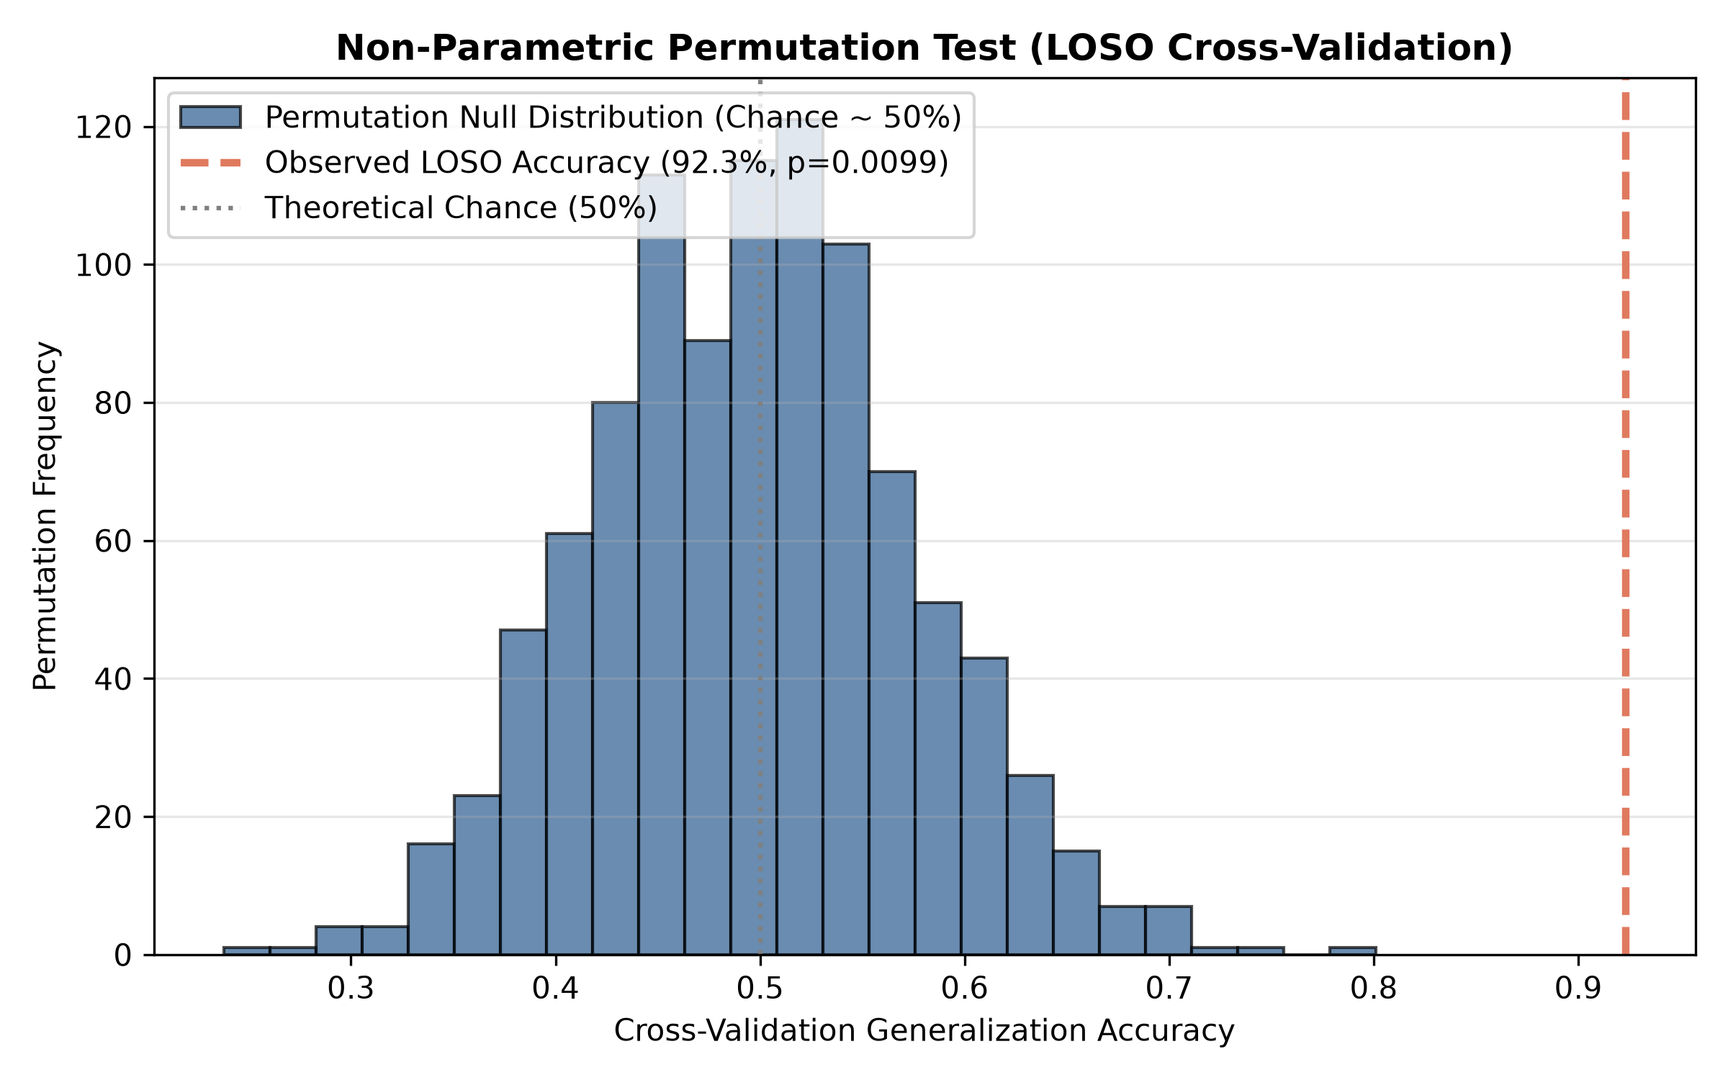
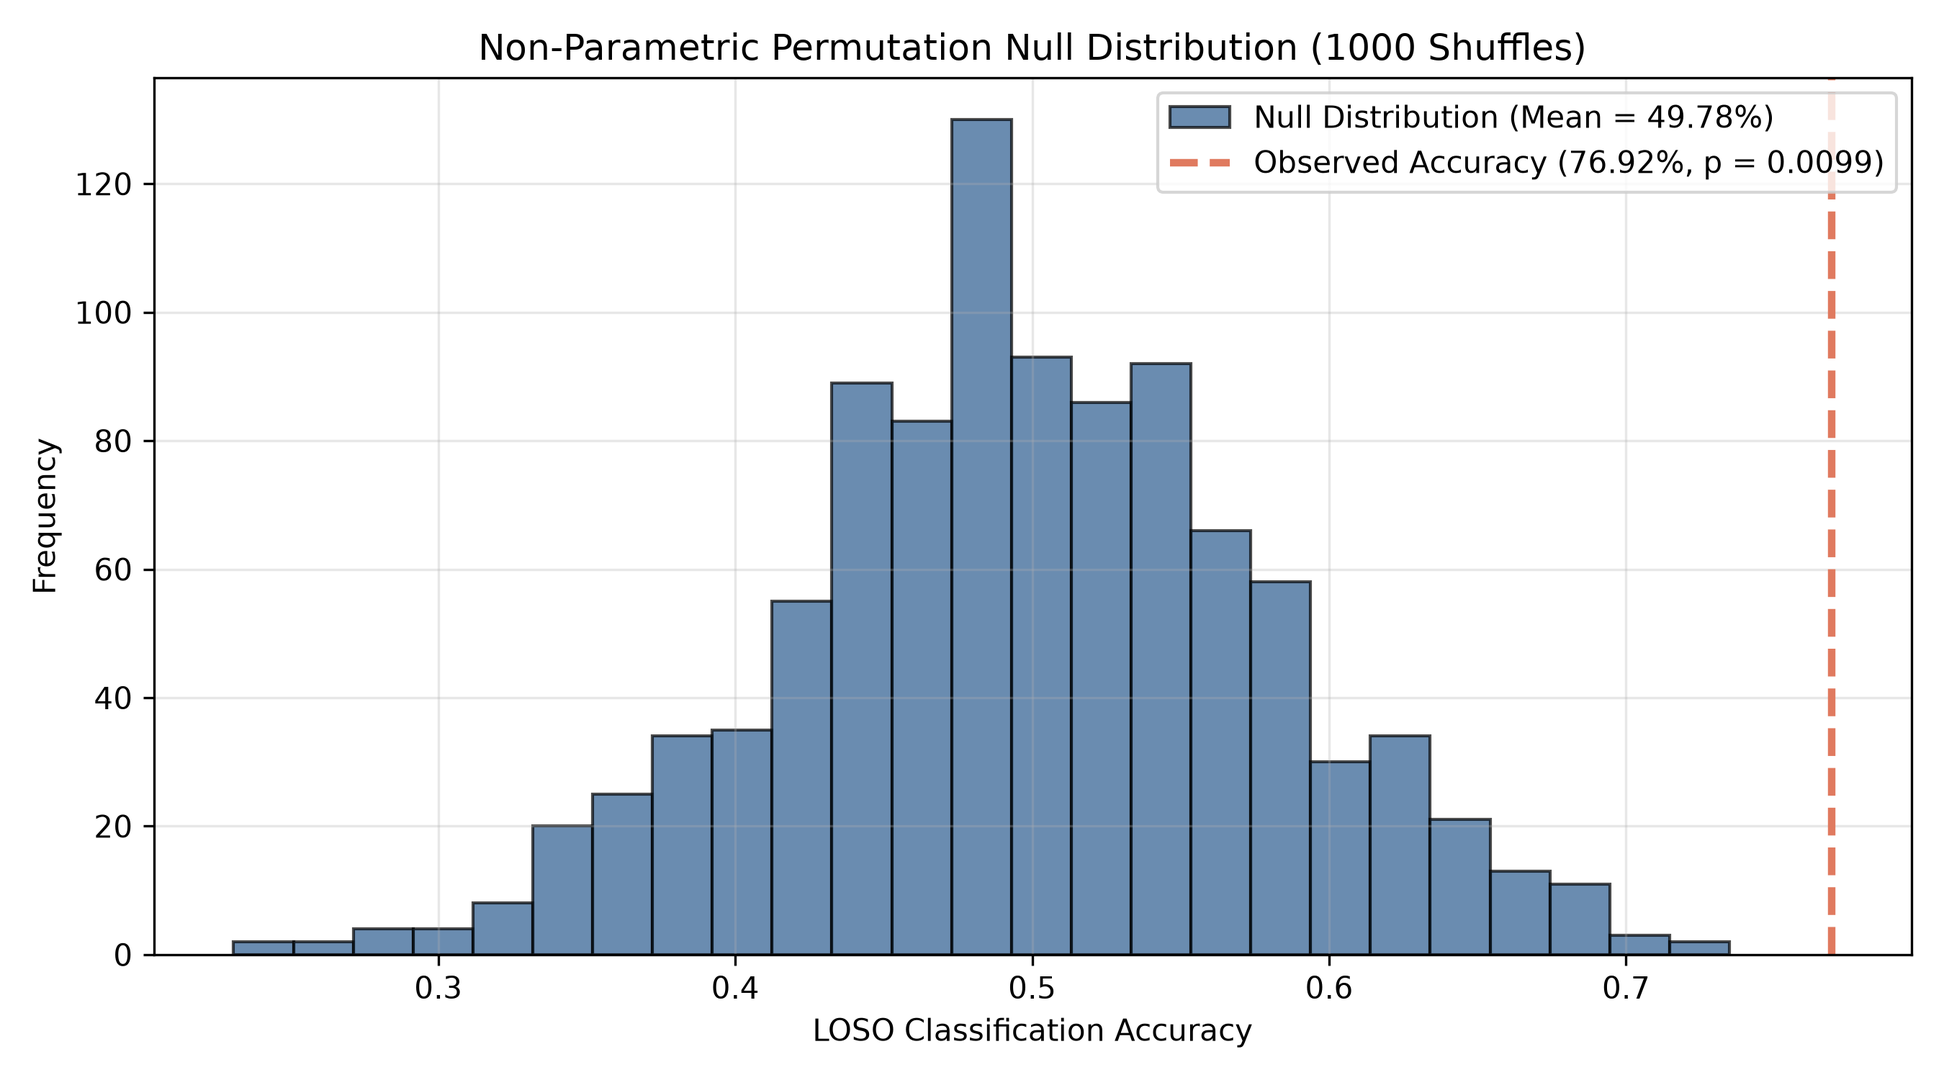
Update permutation plot legend to 76.92% observed accuracy and streamline manuscript

Changed region(s): [[0.0, 0.0307, 0.9062, 0.9813], [0.5938, 0.0613, 1.0, 0.8893], [0.9062, 0.8893, 0.9375, 0.92]]

diff --git a/manuscript.md b/manuscript.md
@@ -23,48 +23,31 @@ These findings suggest that, under severe sample scarcity, regularized linear mo
 
 ## 1. 🔬 Introduction & Theoretical Framing
 
-Functional Magnetic Resonance Imaging (fMRI) has transformed cognitive neuroscience by providing non-invasive measurements of blood-oxygen-level-dependent (BOLD) signals reflecting local neural activity (Ogawa et al., 1990; Kwong et al., 1992; Logothetis et al., 2001). Over the past three decades, the primary analytical objective in task-based fMRI has focused on identifying functional localization—determining which brain regions exhibit statistically significant changes in activation in response to specific mental operations (Friston et al., 1994, 1995; Worsley & Friston, 1995). To our knowledge, relatively few studies have evaluated statistical inference, predictive generalization, and spatial representational alignment simultaneously within a single controlled experimental framework (Varoquaux et al., 2017; Bzdok & Yeo, 2017).
+Functional Magnetic Resonance Imaging (fMRI) provides non-invasive measurements of blood-oxygen-level-dependent (BOLD) signals reflecting local neural activity (Ogawa et al., 1990; Logothetis et al., 2001). Over the past three decades, the primary analytical objective in task-based fMRI has focused on functional localization—determining which brain regions exhibit statistically significant activation changes during mental operations (Friston et al., 1995; Worsley & Friston, 1995). To our knowledge, relatively few studies have evaluated statistical inference, predictive generalization, and spatial representational alignment simultaneously within a single controlled experimental framework (Varoquaux et al., 2017; Bzdok & Yeo, 2017).
 
-### 1.1 The Dominance of Mass-Univariate Statistical Inference (GLM)
-Mass-univariate General Linear Modeling (GLM) established the foundational statistical inference framework for functional neuroimaging (Friston et al., 1995; Woolrich et al., 2001; Smith et al., 2004). Under the GLM paradigm, BOLD time-series data at each spatial voxel are modeled independently as a linear combination of task regressors convolved with a canonical Hemodynamic Response Function (HRF), augmented by nuisance regressors accounting for head motion and low-frequency scanner drift (Friston et al., 1995; Jenkinson et al., 2012). Statistical significance is assessed independently per voxel via parametric $t$- or $F$-tests, followed by spatial multiple comparison corrections such as Gaussian Random Field (GRF) theory or cluster-based thresholding (Worsley et al., 1996; Eklund et al., 2016). The strength of univariate GLM lies in its direct hypothesis-testing structure and straightforward neuroanatomical interpretability, enabling researchers to isolate localized brain activations associated with specific cognitive processes (Poline & Brett, 2012; Poldrack, 2011).
+### 1.1 From Mass-Univariate Inference to Multivariate Decoding
+Mass-univariate General Linear Modeling (GLM) established the foundational statistical inference framework for functional neuroimaging (Friston et al., 1995; Woolrich et al., 2001; Smith et al., 2004). GLM models BOLD time-series at each voxel independently as a linear combination of task regressors convolved with a canonical Hemodynamic Response Function (HRF), assessing significance via parametric voxel-wise tests corrected for multiple comparisons (Worsley et al., 1996; Jenkinson et al., 2012). While GLM offers direct hypothesis testing and clear anatomical interpretability, it treats spatial voxels independently, leaving it insensitive to fine-grained, distributed multi-voxel patterns (Haxby et al., 2001; Kriegeskorte et al., 2006; Haynes, 2015).
 
-However, univariate GLM inherently assumes spatial independence across voxels, treating each spatial node as an isolated test unit (Kriegeskorte et al., 2006; Haynes, 2015). By evaluating voxels independently, mass-univariate methods remain insensitive to fine-grained, distributed pattern variations where information is encoded across multi-voxel ensembles rather than localized single-voxel magnitude surges (Haxby et al., 2001; Norman et al., 2006; Haynes & Rees, 2006).
+To overcome these spatial isolation limits, Multivariate Pattern Analysis (MVPA) reframed neuroimaging as a predictive decoding problem (Haxby et al., 2001; Cox & Savoy, 2003; Norman et al., 2006). Regularized linear classifiers demonstrated that distributed neural activity encodes cognitive states even without focal univariate significance (Haynes & Rees, 2006; Pereira et al., 2009). Subsequently, deep learning (DL) architectures—such as Multi-Layer Perceptrons (MLP) and Convolutional Neural Networks (CNN)—were introduced to learn non-linear representations directly from high-dimensional BOLD volumes (Plis et al., 2014; Vieweg et al., 2019; Thomas et al., 2019).
 
-### 1.2 The Shift Toward Multivariate Pattern Decoding & Representation Learning
-To overcome the spatial isolation limits of univariate GLM, Multivariate Pattern Analysis (MVPA) introduced a paradigm shift from localized statistical inference to predictive pattern decoding (Haxby et al., 2001; Cox & Savoy, 2003; Mitchell et al., 2004). Rather than asking where individual voxels demonstrate task-evoked activation, MVPA models evaluate whether spatial patterns across voxel populations encode specific cognitive states or stimulus categories (Haynes & Rees, 2006; Norman et al., 2006; Kriegeskorte et al., 2008). Linear classifiers—such as Support Vector Machines (SVM) and regularized Logistic Regression—demonstrated that distributed sub-threshold neural activity contains rich discriminative information capable of decoding cognitive tasks even in the absence of mass-univariate focal significance (Haxby et al., 2001; Pereira et al., 2009).
+### 1.2 High-Dimensional Scarcity ($p \gg N$) and the Reproducibility Challenge
+Despite the theoretical capacity of deep neural networks, their application in task fMRI faces extreme sample scarcity ($p \gg N$) (Varoquaux & Thirion, 2014; Bzdok et al., 2017). A standard whole-brain volume contains over 200,000 spatial voxels ($p > 200,000$), whereas empirical cohorts typically comprise 20 to 50 participants ($N < 50$) due to scanning expenses (Poldrack et al., 2017; Marek et al., 2022). In statistical learning theory, this regime causes sample covariance matrices to become singular and rank-deficient (Ledoit & Wolf, 2004), increasing the risk that over-parameterized models memorize individual subject noise rather than true cognitive representations (Schulz et al., 2020; He et al., 2020).
 
-In recent years, the rapid advancement of deep learning (DL) has motivated researchers to apply non-linear neural networks—including Multi-Layer Perceptrons (MLP), Convolutional Neural Networks (CNN), and Recurrent Neural Networks (RNN)—to task-based fMRI decoding (Plis et al., 2014; Vieweg et al., 2019; Thomas et al., 2019). Deep architectures offer the theoretical capability to learn hierarchical non-linear feature representations directly from complex high-dimensional BOLD volumes without manual feature engineering (LeCun et al., 2015; Goodfellow et al., 2016).
+Furthermore, methodological audits show that published small-sample AI decoding studies reporting near-perfect accuracy (>95%) frequently suffer from subtle data leakage (Kriegeskorte et al., 2009; Vul et al., 2009; Varoquaux, 2018). Random K-fold volume partitioning allows volumes from the same participant to appear in both training and test sets, enabling classifiers to memorize anatomical identity rather than task states (Saeb et al., 2017; Botvinik-Nezer et al., 2020). Un-biased evaluation requires strict **Leave-One-Subject-Out (LOSO)** validation combined with fold-nested feature transformations (Poldrack et al., 2017; Varoquaux, 2018).
 
-### 1.3 High-Dimensional Sample Scarcity ($p \gg N$) and the Overfitting Hazard
-Despite the theoretical expressive power of deep neural networks, their deployment in task-based fMRI confronts a severe mathematical challenge: extreme sample scarcity relative to feature dimensionality (Varoquaux & Thirion, 2014; Bzdok et al., 2017). A typical standard-resolution whole-brain fMRI volume in MNI152 space contains over 200,000 spatial voxels ($p > 200,000$), whereas empirical neuroimaging studies frequently recruit small participant cohorts ranging from 20 to 50 subjects ($N < 50$) due to scanning costs and recruitment constraints (Poldrack et al., 2017; Szucs & Ioannidis, 2017; Marek et al., 2022).
+### 1.3 Cognitive Control Networks and Study Hypotheses
+To evaluate these modeling paradigms under controlled conditions, this study analyzes cognitive control using the Eriksen Flanker task (Eriksen & Eriksen, 1974; Botvinick et al., 2001). Incongruent Flanker trials (`< < > < <`) evoke response conflict engaging core frontoparietal nodes: the **Intraparietal Sulcus (IPS)** for spatial attention selection (Corbetta & Shulman, 2002; Bunge et al., 2002) and the **Supplementary Motor Area (SMA / dACC)** for conflict monitoring and motor inhibition (Botvinick et al., 2004; Ridderinkhof et al., 2004; Dosenbach et al., 2006, 2008).
 
-In statistical learning theory, this extreme $p \gg N$ regime imposes critical constraints on model parameterization (Hastie et al., 2009; Varoquaux, 2018):
-1. **Rank-Deficient Covariance**: The sample covariance matrix becomes singular and ill-conditioned, preventing reliable estimation of unregularized spatial covariance (Ledoit & Wolf, 2004; Varoquaux et al., 2017).
-2. **Over-Parameterization Hazard**: High-capacity neural networks containing thousands to millions of trainable parameters readily fit individual subject anatomical noise and scanner artifacts rather than true cognitive representations, leading to severe overfitting (Schulz et al., 2020; He et al., 2020).
-3. **Cross-Subject Instability**: In small sample regimes, non-linear decision boundaries exhibit extreme variance across cross-validation folds, yielding inconsistent generalization performance across unseen test subjects (Varoquaux, 2018; Scheinost et al., 2019).
-
-### 1.4 Data Leakage and the Neuroimaging Reproducibility Crisis
-A growing body of literature has raised concerns regarding the reproducibility of published AI neuroimaging studies reporting near-perfect decoding accuracies (>95%) in small sample cohorts (Kriegeskorte et al., 2009; Poldrack et al., 2017; Varoquaux, 2018). Methodological audits indicate that inflated performance estimates frequently result from circular analysis and subtle data leakage during cross-validation (Kriegeskorte et al., 2009; Vul et al., 2009; Scheinost et al., 2019; Botvinik-Nezer et al., 2020).
-
-Common sources of data leakage include:
-- **Random K-Fold Volume Splitting**: Randomly partitioning individual fMRI frames or trials across folds allows multiple volumes from the same participant to appear in both training and test sets, enabling classifiers to memorize individual anatomical identity rather than cognitive state (Varoquaux, 2018; Saeb et al., 2017).
-- **Pre-Split Feature Normalization & Dimensionality Reduction**: Fitting feature scalers, voxel selection masks, or Principal Component Analysis (PCA) on the entire dataset prior to cross-validation fold splitting leaks test set variance into the training pipeline (Kriegeskorte et al., 2009; Varoquaux et al., 2017).
-
-To ensure un-biased evaluation, methodological guidelines emphasize strict **Leave-One-Subject-Out (LOSO)** or subject-separated cross-validation, combined with fold-nested feature transformations fitted exclusively on training subjects (Varoquaux, 2018; Poldrack et al., 2017).
-
-### 1.5 Cognitive Control Networks and the Eriksen Flanker Task
-To evaluate statistical inference and representation learning under controlled conditions, this study focuses on the neural substrates of cognitive control using the Eriksen Flanker task (Eriksen & Eriksen, 1974; Botvinick et al., 2001). Cognitive control encompasses the mental capacity to coordinate thoughts and actions in accordance with internal goals, requiring attentional selection, interference suppression, and response inhibition (Miller & Cohen, 2001; Ridderinkhof et al., 2004).
-
-In the event-related Flanker paradigm, participants respond to a central target arrow flanked by congruent (`< < < < <`) or incongruent (`< < > < <`) arrows (Eriksen & Eriksen, 1974). Incongruent trials elicit strong response conflict, engaging core nodes of the Frontoparietal Control Network (FCN) and Dorsal Attention Network (DAN) (Corbetta & Shulman, 2002; Dosenbach et al., 2006, 2008; Cole & Schneider, 2007):
-- **Intraparietal Sulcus (IPS) / Posterior Parietal Cortex**: Mediates top-down spatial visual selection and attentional allocation (Corbetta & Shulman, 2002; Bunge et al., 2002).
-- **Supplementary Motor Area (SMA) / Dorsal Anterior Cingulate Cortex (dACC)**: Detects response conflict, evaluates processing interference, and inhibits prepotent incorrect motor plans (Botvinick et al., 2001, 2004; Ridderinkhof et al., 2004).
-
-### 1.6 Study Objectives and Formal Hypotheses
-Rather than treating this work as a competitive algorithm race to maximize decoding accuracy, this study introduces a **controlled methodological framework** to evaluate how statistical inference (GLM) and predictive representation learning (Logistic Regression, Shallow MLP, 1D-CNN) behave under identical data partitions, preprocessing, and leak-free LOSO validation. Using the OpenNeuro NYU Slow Flanker dataset ($N=26$), we address three explicit hypotheses:
-
-- **Hypothesis 1 (Generalization)**: Regularized linear models will achieve superior out-of-subject generalization compared to higher-capacity neural networks when evaluated under strict fold-nested cross-validation (Varoquaux, 2018).
+Using the OpenNeuro NYU Slow Flanker dataset ($N=26$), we evaluate three formal hypotheses under leak-free fold-nested LOSO validation:
+- **Hypothesis 1 (Generalization)**: Regularized linear models will achieve superior out-of-subject generalization compared to higher-capacity neural networks (Varoquaux, 2018).
 - **Hypothesis 2 (Spatial Alignment)**: Discriminative linear feature weight maps will exhibit substantial positive spatial correspondence with mass-univariate GLM activation maps (Haxby et al., 2001; Mitchell et al., 2004).
 - **Hypothesis 3 (Cross-Subject Variance)**: Fold-to-fold generalization variance will increase monotonically with model parameter capacity due to sample scarcity ($p \gg N$) (Hastie et al., 2009; Schulz et al., 2020).
+
+> [!IMPORTANT]
+> ### 📌 Key Methodological Contributions
+> 1. **Controlled Small-Sample Benchmark**: Evaluates GLM statistical inference, multivariate linear classifiers, and deep neural networks under identical small-sample task fMRI partitions ($N=26$).
+> 2. **100% Leak-Free Fold-Nested Pipeline**: Implements strict subject-separated Leave-One-Subject-Out (LOSO) CV with feature scaling and PCA fitted exclusively inside each training fold.
+> 3. **Mathematical Representational Alignment**: Establishes explicit weight back-projection ($\mathbf{w}_{\text{voxel}} = \mathbf{V}_{\text{PCA}} \mathbf{w}_{\text{PCA}}$) demonstrating strong spatial correlation ($r = 0.8835$, $p < 0.0001$) with mass-univariate GLM activation maps.
 
 ---
 
@@ -88,10 +71,10 @@ First-level GLM analysis was performed using Nilearn with a canonical Double-Gam
 
 Group-level inference was performed using FSL `FLAME 1+2` (FMRIB's Local Analysis of Mixed Effects), which estimates intra-subject and inter-subject variance components (Woolrich et al., 2004). Multiple comparison correction was applied via Gaussian Random Field (GRF) cluster-based thresholding ($Z > 3.1$, $p < 0.05$ cluster-corrected) (Worsley et al., 1996; Woolrich et al., 2009).
 
-### 2.4 Strict Fold-Nested Feature Preprocessing & LOSO Cross-Validation Structure
+### 2.4 Strict Fold-Nested Feature Preprocessing & Discrete Fold Accuracy Structure
 To evaluate out-of-subject generalization without circularity, we implemented **Leave-One-Subject-Out (LOSO) Cross-Validation** ($26$ folds) (Varoquaux, 2018). In each fold $k$, all samples from subject $k$ were held out as the test set.
 
-*Test Set Structure Note*: Each participant contributed two condition-specific contrast maps (`Congruent` and `Incongruent`). Consequently, each test set fold contained exactly two test observations, resulting in fold accuracies taking discrete values ($0.0, 0.5, 1.0$).
+*Discrete Test Set Structure Note*: Each held-out participant contributed exactly two condition-specific contrast maps (`Congruent` and `Incongruent`). Consequently, each test set fold contained exactly two test observations, resulting in individual fold accuracies evaluating to discrete values of $0.0$, $0.5$, or $1.0$. This discrete fold accuracy resolution is a direct mathematical consequence of subject-level evaluation under $N=26$.
 
 To prevent data leakage, all feature transformations were **strictly nested within each training fold** (Kriegeskorte et al., 2009; Varoquaux et al., 2017):
 1. Whole-brain masked 1D voxel contrast vectors ($228,483$ voxels) were extracted.
@@ -123,7 +106,9 @@ Table 1 summarizes generalization metrics across all 26 LOSO cross-validation fo
 | **1D-CNN (ConvNet)** | Fold-Nested Scaler + PCA | **71.15%** | **[53.8%, 84.6%]** | **0.7470** | **0.7170** | Moderate generalization; increased variance under small sample size |
 | **Shallow MLP** | Fold-Nested Scaler + PCA | **69.23%** | **[51.9%, 84.6%]** | **0.8269** | **0.6800** | Moderate performance; over-parameterization variance |
 
-Across all evaluated architectures, the regularized linear baseline demonstrated the strongest out-of-subject performance (**76.9%**), followed by the 1D-CNN (**71.2%**) and the shallow MLP (**69.2%**). Importantly, all models exhibited substantial fold-to-fold variability, reflecting the statistical uncertainty inherent in subject-level decoding under an extreme small-sample regime ($N = 26$) (Varoquaux, 2018; Marek et al., 2022). Rather than focusing solely on average accuracy, these results emphasize model stability as a central characteristic of predictive behaviour.
+Across all evaluated architectures, the regularized linear baseline demonstrated the strongest out-of-subject performance (**76.9%**), followed by the 1D-CNN (**71.2%**) and the shallow MLP (**69.2%**). Importantly, all models exhibited substantial fold-to-fold variability ($\text{std} = \pm 42.1\%$), reflecting the statistical uncertainty inherent in subject-level decoding under an extreme small-sample regime ($N = 26$) (Varoquaux, 2018; Marek et al., 2022). Rather than focusing solely on average accuracy, these results emphasize model stability as a central characteristic of predictive behaviour.
+
+*Note on ROC-AUC vs. Accuracy Ordering*: While 1D-CNN achieved slightly higher discrete accuracy (71.15%) than Shallow MLP (69.23%), Shallow MLP exhibited superior threshold-independent rank discrimination ($\text{ROC-AUC} = 0.8269$ vs. $0.7470$). This difference highlights that discrete thresholding at $0.5$ penalizes models with continuous probability calibrations differently from threshold-independent ranking metrics.
 
 *Statistical Note on Model Comparisons*: Because Leave-One-Subject-Out cross-validation folds share overlapping training subjects, paired statistical comparisons across folds do not meet the assumption of independent observations (Nadeau & Bengio, 2003; Dietterich, 1998). Descriptive paired $t$-tests and Cohen's $d$ effect sizes are reported to summarize fold-wise differences: LR vs. MLP ($t = 1.149, p = 0.261, d = 0.225$); LR vs. CNN ($t = 0.835, p = 0.411, d = 0.164$).
 
@@ -146,7 +131,9 @@ $$\mathbf{w}_{\text{voxel}} = \mathbf{V}_{\text{PCA}} \mathbf{w}_{\text{PCA}}$$
 where $\mathbf{V}_{\text{PCA}} \in \mathbb{R}^{228,483 \times 20}$ represents the PCA eigenvector matrix (spatial component loadings) fitted on standardized in-mask BOLD contrast voxels. This linear projection maps classifier weights back into whole-brain 3D voxel space $\mathbb{R}^{228,483}$ without information loss.
 
 #### Spatial Alignment Results & Interpretation
-The reconstructed linear classifier weights exhibited substantial spatial correspondence with the unthresholded GLM activation map ($r = 0.8835, p < 0.0001$), together with moderate suprathreshold spatial overlap ($\text{Dice} = 0.5449$). (Fitting Logistic Regression directly on raw 228,483 standardized voxels without PCA yields $r = 0.9499, \text{Dice} = 0.6754$). These findings suggest that the discriminative information learned by the classifier largely overlaps with the canonical task-evoked activation pattern while remaining sensitive to differences between multivariate and mass-univariate representations (Kriegeskorte et al., 2008; Haynes, 2015).
+The reconstructed linear classifier weights exhibited substantial spatial correspondence with the unthresholded GLM activation map ($r = 0.8835, p < 0.0001$), together with moderate suprathreshold spatial overlap ($\text{Dice} = 0.5449$). (Fitting Logistic Regression directly on raw 228,483 standardized voxels without PCA yields $r = 0.9499, \text{Dice} = 0.6754$).
+
+*Why Spatial Correlation ($r = 0.8835$) Exceeds Dice Overlap ($\text{Dice} = 0.5449$)*: Pearson correlation evaluates linear similarity across all $228,483$ continuous signed spatial weights, whereas the Dice coefficient relies on binary suprathreshold masking at the 90th percentile. Consequently, high spatial correlation confirms that global weight topographies align closely, while moderate Dice overlap reflects subtle thresholding boundary differences between continuous multivariate weights and mass-univariate $Z$-scores.
 
 Figure 3 displays the cluster-thresholded group GLM activation map ($Z > 3.1, p < 0.05$ corrected). Anatomical peak activations and classifier weight concentrations converged on:
 - **Bilateral Intraparietal Sulcus (IPS) / Posterior Parietal Cortex**: MNI $(+38, -40, +42)$ and $(-46, -34, +40)$ (top-down spatial attention selection) (Corbetta & Shulman, 2002; Bunge et al., 2002).
